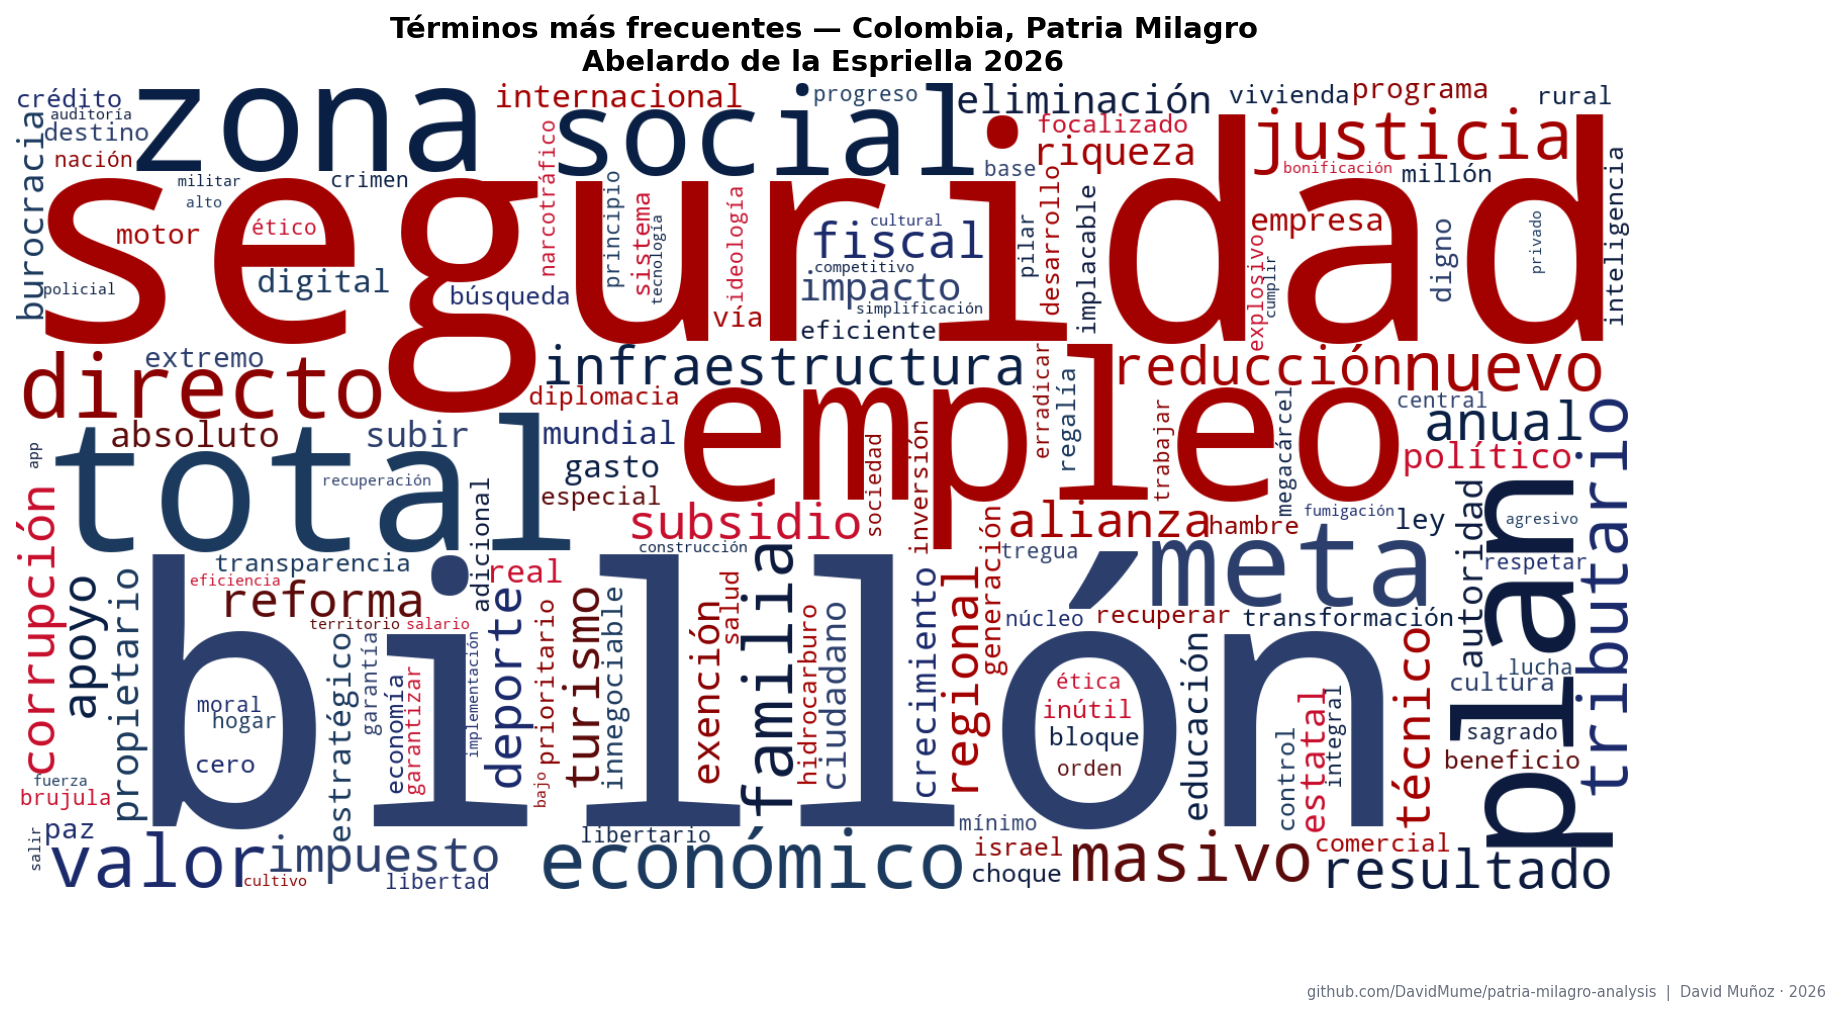
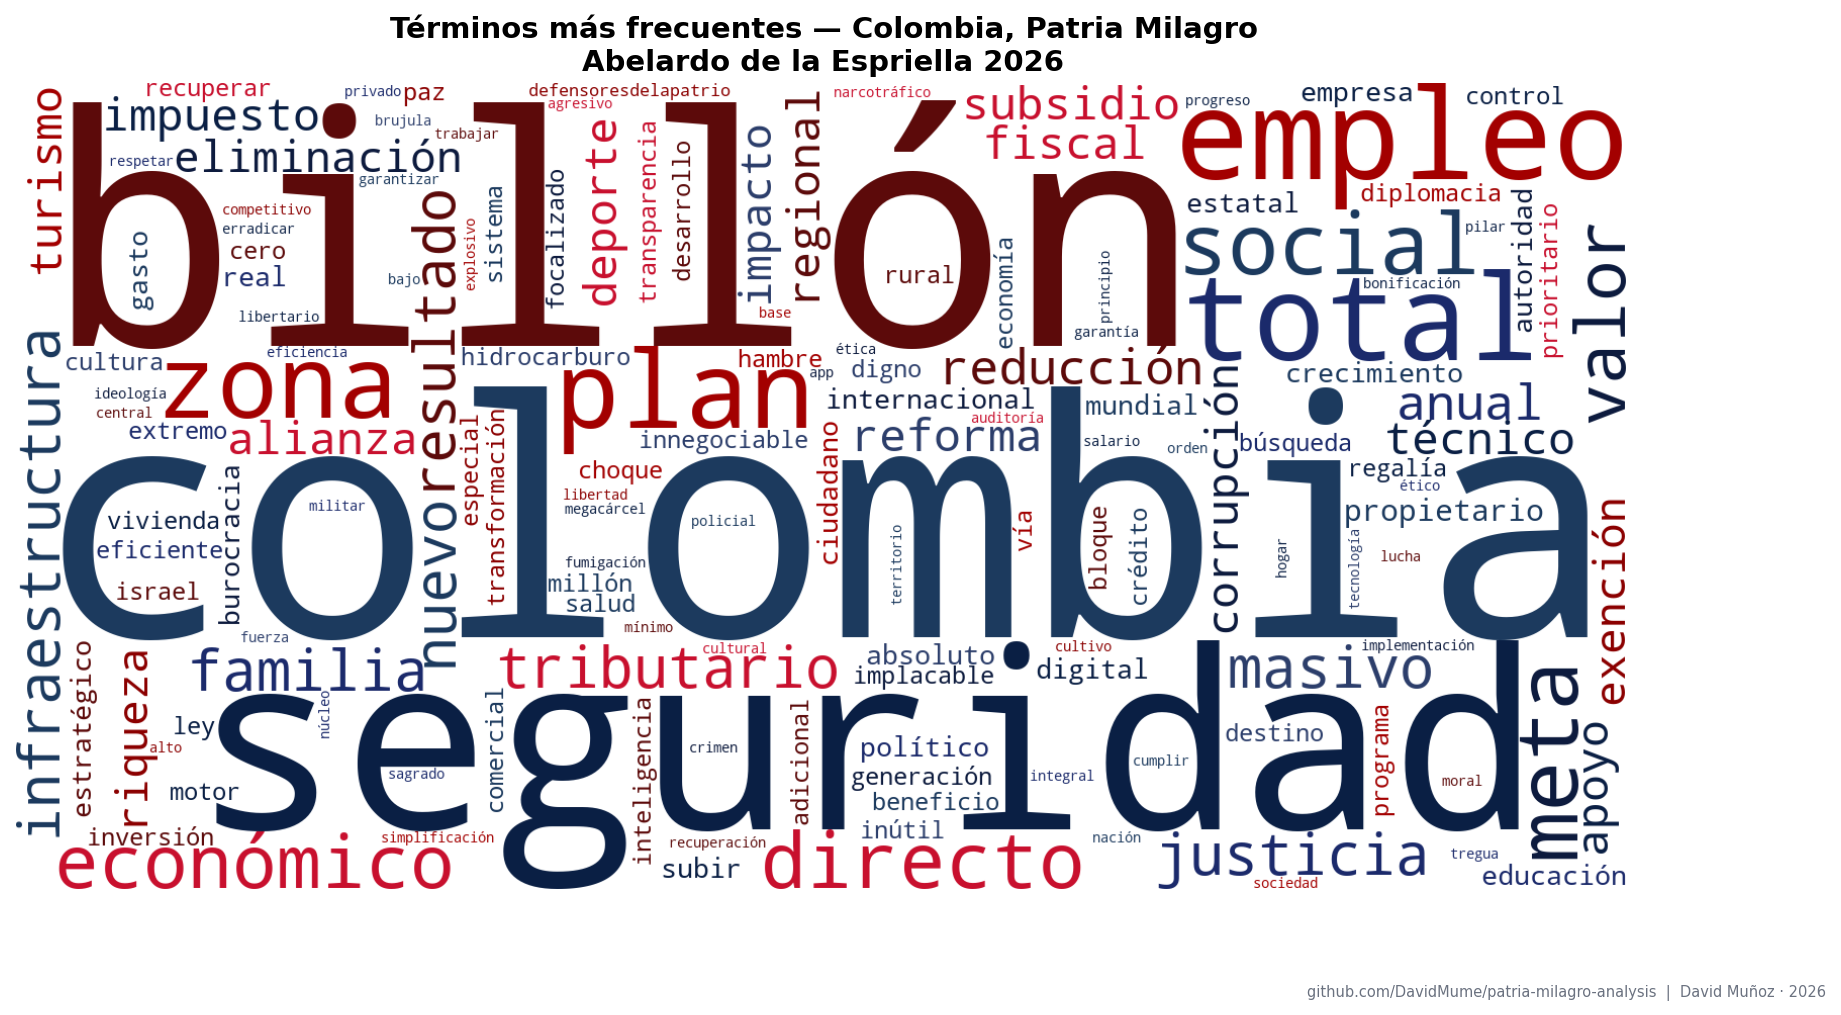
Wordcloud: devuelve 'colombia' al vocabulario activo

diff --git a/scripts/analyze_espriella.py b/scripts/analyze_espriella.py
@@ -131,7 +131,7 @@ custom_sw = {
     "estar","haber","hay","han","son","sus","del","las","los","les","nos",
     "como","pero","para","por","con","sin","todo","todos","toda","todas",
     "mismo","misma","mismos","mismas","muy","cuando","quien","quienes",
-    "que","qué","donde","cómo","porque","si","ya","aún","sólo","colombia",
+    "que","qué","donde","cómo","porque","si","ya","aún","sólo",
     "colombiano","colombiana","colombianos","colombianas","gobierno",
     "nacional","país","público","pública","años","año","mil","millones",
     "deben","hacer","abelardo","espriella","candidato","patria","milagro",